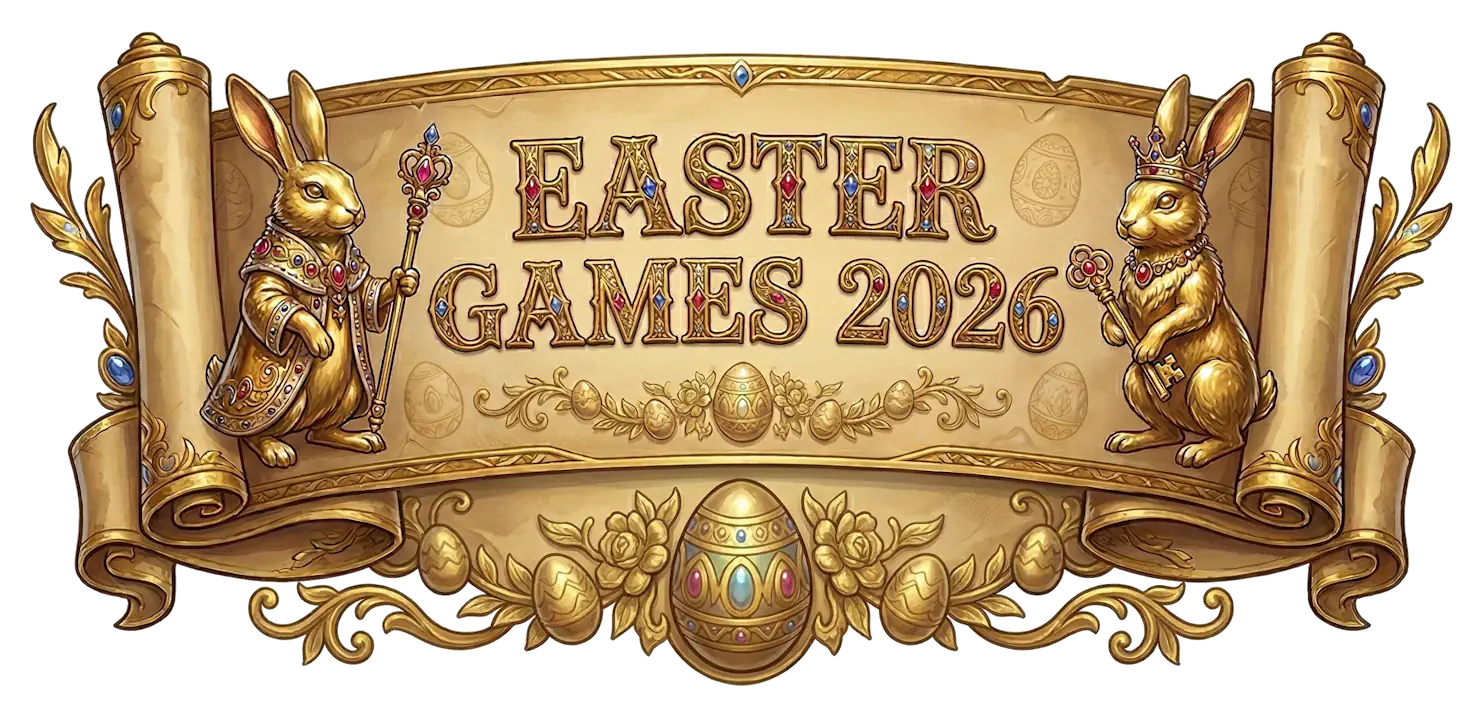
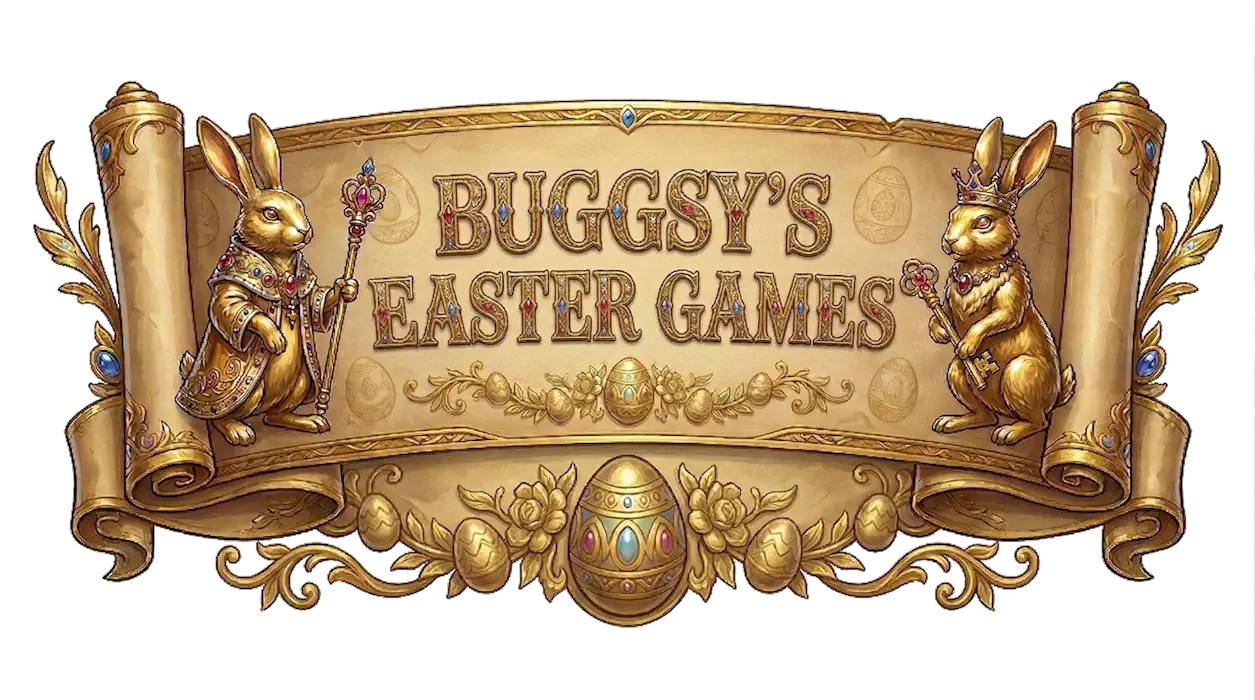
Add click sounds to Conneggtions, adjust Eggdle decorations
Play click sound on selecting/deselecting words in Conneggtions.
Move Eggdle gold bunny decorations higher. Add gold bunny assets,
Decorations component, and updated banner.

diff --git a/src/components/conneggtions/Conneggtions.tsx b/src/components/conneggtions/Conneggtions.tsx
@@ -7,6 +7,7 @@ import SolvedGroup from "./SolvedGroup";
 import MistakeIndicator from "./MistakeIndicator";
 import EndDialog from "./EndDialog";
 import GameIntroDialog from "../GameIntroDialog";
+import Decorations from "../Decorations";
 import { PUZZLE } from "../../lib/conneggtionsData";
 import type { ConneggtionsGroup } from "../../lib/conneggtionsData";
 import { checkGuess, shuffleWords } from "../../lib/conneggtions";
@@ -154,33 +155,15 @@ export default function Conneggtions() {
 
   return (
     <>
-      <img
-        src={images.jellyBeans}
-        alt=""
-        className="fixed top-[80px] w-[140px] opacity-100 pointer-events-none z-0 animate-wobble-float"
-        style={{ left: "-5%", "--wobble-base": "-8deg" } as React.CSSProperties}
-      />
-      <img
-        src={images.chocolateBunny}
-        alt=""
-        className="fixed top-[50px] w-[120px] opacity-100 pointer-events-none z-0 animate-wobble-float"
-        style={{ right: "-5%", "--wobble-base": "8deg", animationDelay: "-4s" } as React.CSSProperties}
-      />
-      <img
-        src={images.peep}
-        alt=""
-        className="fixed bottom-[3%] w-[180px] scale-80 opacity-100 pointer-events-none z-0"
-        style={{ left: "-5%" }}
-      />
-      <img
-        src={images.chocolateBunny}
-        alt=""
-        className="fixed bottom-[5%] w-[160px] opacity-100 pointer-events-none z-0"
-        style={{ right: "-10%" }}
+      <Decorations
+        topLeft={{ src: images.peep, className: "top-[60px] w-[140px]", style: { left: "-5%" } }}
+        topRight={{ src: images.chocolateBunny, className: "top-[50px] w-[120px]", style: { right: "-5%" } }}
+        bottomLeft={{ src: images.goldBunnyLeft, className: "h-[300px] w-auto", style: { bottom: "40px", left: "-40px" } }}
+        bottomRight={{ src: images.goldBunnyRight, className: "h-[300px] w-auto", style: { bottom: "40px", right: "-40px" } }}
       />
       <Header title="Conneggtions" />
       <Toast message={toast} />
-      <div className="flex flex-col items-center flex-1 overflow-y-auto px-4 gap-1.5" style={{ paddingTop: "10vh" }}>
+      <div className="flex flex-col items-center flex-1 overflow-y-auto px-4 gap-1.5 relative z-10" style={{ paddingTop: "10vh" }}>
         {/* Solved groups */}
         {solvedGroups.map((group) => (
           <SolvedGroup key={group.category} group={group} />

diff --git a/src/components/Decorations.tsx b/src/components/Decorations.tsx
@@ -1,0 +1,53 @@
+import React from "react";
+
+interface DecorationItem {
+  src: string;
+  className?: string;
+  style?: React.CSSProperties;
+}
+
+interface DecorationsProps {
+  topLeft?: DecorationItem;
+  topRight?: DecorationItem;
+  bottomLeft?: DecorationItem;
+  bottomRight?: DecorationItem;
+}
+
+export default function Decorations({ topLeft, topRight, bottomLeft, bottomRight }: DecorationsProps) {
+  return (
+    <>
+      {topLeft && (
+        <img
+          src={topLeft.src}
+          alt=""
+          className={`fixed pointer-events-none z-0 animate-wobble-float ${topLeft.className ?? ""}`}
+          style={{ "--wobble-base": "-8deg", ...topLeft.style } as React.CSSProperties}
+        />
+      )}
+      {topRight && (
+        <img
+          src={topRight.src}
+          alt=""
+          className={`fixed pointer-events-none z-0 animate-wobble-float ${topRight.className ?? ""}`}
+          style={{ "--wobble-base": "8deg", animationDelay: "-4s", ...topRight.style } as React.CSSProperties}
+        />
+      )}
+      {bottomLeft && (
+        <img
+          src={bottomLeft.src}
+          alt=""
+          className={`fixed pointer-events-none z-[2] ${bottomLeft.className ?? ""}`}
+          style={bottomLeft.style}
+        />
+      )}
+      {bottomRight && (
+        <img
+          src={bottomRight.src}
+          alt=""
+          className={`fixed pointer-events-none z-[2] ${bottomRight.className ?? ""}`}
+          style={bottomRight.style}
+        />
+      )}
+    </>
+  );
+}

diff --git a/src/components/eggdle/Eggdle.tsx b/src/components/eggdle/Eggdle.tsx
@@ -3,6 +3,7 @@ import { useNavigate } from "react-router-dom";
 import Grid from "./Grid";
 import Keyboard from "./Keyboard";
 import Header from "../Header";
+import Decorations from "../Decorations";
 import Toast from "../Toast";
 import SuccessDialog from "./SuccessDialog";
 import FailureDialog from "./FailureDialog";
@@ -208,17 +209,11 @@ export default function Eggdle({ targetWord }: EggdleProps) {
 
   return (
     <>
-      <img
-        src={images.jellyBeans}
-        alt=""
-        className="fixed top-[80px] w-[140px] opacity-100 pointer-events-none z-0 animate-wobble-float"
-        style={{ left: "-5%", "--wobble-base": "-8deg" } as React.CSSProperties}
-      />
-      <img
-        src={images.chocolateBunny}
-        alt=""
-        className="fixed top-[50px] w-[120px] opacity-100 pointer-events-none z-0 animate-wobble-float"
-        style={{ right: "-5%", "--wobble-base": "8deg", animationDelay: "-4s" } as React.CSSProperties}
+      <Decorations
+        topLeft={{ src: images.jellyBeans, className: "top-[80px] w-[140px]", style: { left: "-5%" } }}
+        topRight={{ src: images.chocolateBunny, className: "top-[50px] w-[120px]", style: { right: "-5%" } }}
+        bottomLeft={{ src: images.goldBunnyLeft, className: "h-[300px] w-auto", style: { bottom: "80px", left: "-40px" } }}
+        bottomRight={{ src: images.goldBunnyRight, className: "h-[300px] w-auto", style: { bottom: "80px", right: "-40px" } }}
       />
       <Header title="Eggdle" />
       <Toast message={toast} />

diff --git a/src/components/Layout.tsx b/src/components/Layout.tsx
@@ -21,18 +21,6 @@ export default function Layout() {
         alt=""
         className="absolute bottom-0 left-0 w-full opacity-100 pointer-events-none z-[1]"
       />
-      <img
-        src={images.bunnyLeft}
-        alt=""
-        className="fixed h-[300px] w-auto pointer-events-none z-[2]"
-        style={{ bottom: "-40px", left: "-40px" }}
-      />
-      <img
-        src={images.bunnyRight}
-        alt=""
-        className="fixed h-[300px] w-auto pointer-events-none z-[2]"
-        style={{ bottom: "-40px", right: "-40px" }}
-      />
 
       {titleDismissed ? (
         <div className="flex flex-col flex-1 overflow-hidden relative z-10">

diff --git a/src/assets/index.ts b/src/assets/index.ts
@@ -10,8 +10,8 @@ import title from "./title.webp";
 import banner from "./banner.webp";
 import jellyBeans from "./jelly-beans.webp";
 import chocolateBunny from "./chocolate-bunny.webp";
-import bunnyLeft from "./bunny-left.webp";
-import bunnyRight from "./bunny-right.webp";
+import goldBunnyLeft from "./gold-bunny-left.webp";
+import goldBunnyRight from "./gold-bunny-right.webp";
 import peep from "./peep.webp";
 import eggBorder from "./egg-border.webp";
 
@@ -48,8 +48,8 @@ export const images = {
   jellyBeans,
   chocolateBunny,
   peep,
-  bunnyLeft,
-  bunnyRight,
+  goldBunnyLeft,
+  goldBunnyRight,
   eggBorder,
 } as const;
 

diff --git a/src/components/Header.tsx b/src/components/Header.tsx
@@ -30,7 +30,7 @@ export default function Header({ title }: HeaderProps) {
 
   return (
     <header className="flex items-center justify-center border-b border-[#e8d5f0] px-4 h-[56px] shrink-0 bg-white/80 backdrop-blur-sm relative overflow-hidden">
-      <img src={images.eggBorder} alt="" className="absolute -bottom-3 left-0 w-full opacity-25 pointer-events-none" />
+      <img src={images.eggBorder} alt="" className="absolute -bottom-3 left-0 w-full opacity-35 pointer-events-none" />
       <div className="flex items-center gap-3">
         <h1 className="text-[1.8rem] uppercase text-[#6b4c8a]">
           {title}
